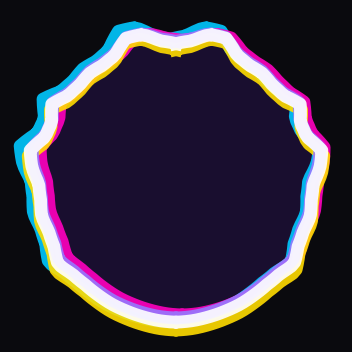
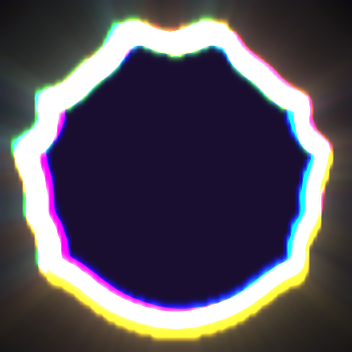
Stop the microphone running late, and light the ring
The microphone was most of a second behind, and the cause was an asymmetry I
put there.

The output ring throws away its backlog on every tick -- discardAllButNewest --
because a visualiser running a third of a second behind the music is worse than
one that dropped a third of a second. The input ring, added last, had no such
line. Two devices on two clocks never deliver in step, so whatever the input
produced beyond what was consumed simply accumulated; the ring holds 65,536
frames, so it filled and stayed full, and every sample mixed in was that old.

It now keeps only the block about to be mixed, which is far less than the output
keeps and deliberately so. The analyser reads a whole FFT frame out of the
output ring and needs two windows there. The input is summed into a block that
has already been read, so anything past that block is not early, it is late.
Keeping two windows still left it 85 ms behind -- inaudible against music you
are already hearing, and very obvious against a room.

Measured rather than assumed, which is why the queue depth is now in the HUD and
in --verify-audio: 65,536 frames before, about 8,192 with the first fix, about
1,024 now. Roughly 680 ms to 11 ms at 96 kHz, or one tick. A queue that grows is
latency, and it should be visible rather than inferred from how wrong something
feels.

The ring gets glow by default too. It and the lines are both drawing something
that emits rather than something that reflects, which is the distinction that
[…]

diff --git a/src/app/DspWorker.cpp b/src/app/DspWorker.cpp
@@ -161,6 +161,26 @@ void DspWorker::tick()
             // of it, and beats resampling a signal that is going to be reduced
             // to twenty-eight numbers anyway.
             if (m_inputRing) {
+                // Throw away the input's backlog first, exactly as the output
+                // ring does above.
+                //
+                // Without this the microphone ran over a second late and stayed
+                // there. Two devices on two clocks never deliver in step, so any
+                // excess the input produces accumulates; the ring holds 65,536
+                // frames, so it filled up and simply stayed full, and every
+                // sample mixed in was a second and a bit old. The output path
+                // had always discarded its backlog to stay current -- the input
+                // path was the one that did not.
+                // Keep only what is about to be mixed, which is far less than
+                // the output ring keeps.
+                //
+                // The output holds two windows because the analyser reads a
+                // whole FFT frame out of it. The input is summed into a block
+                // that has already been read, so anything beyond that block is
+                // not early, it is late: at two windows the microphone sat 85 ms
+                // behind, which is inaudible on music you are already hearing
+                // and very obvious on a room.
+                m_inputRing->discardAllButNewest(got);
                 const auto want = static_cast<std::uint32_t>(
                     std::min<std::uint64_t>(m_inputRing->available(), got));
                 if (want > 0) {

diff --git a/src/app/App.cpp b/src/app/App.cpp
@@ -60,7 +60,10 @@ std::unique_ptr<Visualiser> App::makeVisualiser(const QString &id)
 RenderStyle::Bloom App::defaultBloomFor(const QString &id)
 {
     RenderStyle::Bloom bloom;
-    if (id == QLatin1String("lines")) {
+    // The lines are strokes of light and the ring is a lit rim; both are
+    // drawing something that emits rather than something that reflects, and
+    // both look wrong without it. The rest are objects with edges.
+    if (id == QLatin1String("lines") || id == QLatin1String("ring")) {
         bloom.enabled = true;
     }
     return bloom;
@@ -1047,12 +1050,13 @@ void App::runVerifyTick()
     }
 
     qInfo("rms %7.1f dB   agc %5.1f dB   presence %4.2f   loudest band %2d (%.2f)   "
-          "callbacks %llu   overruns %llu",
+          "callbacks %llu   overruns %llu   mic queue %llu",
           static_cast<double>(state.rmsDb), static_cast<double>(state.agcDb),
           static_cast<double>(state.presence), loudest,
           static_cast<double>(state.bars[loudest]),
           static_cast<unsigned long long>(m_audio->source()->callbackCount()),
-          static_cast<unsigned long long>(m_audio->source()->overrunCount()));
+          static_cast<unsigned long long>(m_audio->source()->overrunCount()),
+          static_cast<unsigned long long>(m_audio->source()->inputBacklogFrames()));
 
     if (++m_verifyTicks >= static_cast<int>(kVerifySeconds * 4)) {
         qInfo("capture: %s", qPrintable(m_audio->source()->statusDetail()));

diff --git a/src/app/DebugHud.cpp b/src/app/DebugHud.cpp
@@ -133,11 +133,13 @@ void DebugHud::refresh()
                                "rate      %1 Hz\n"
                                "callbacks %2\n"
                                "overruns  %3\n"
-                               "capture   %4")
+                               "capture   %4\n"
+                               "mic queue %5 frames")
                     .arg(m_source->sampleRate(), 8, 'f', 0)
                     .arg(m_source->callbackCount(), 8)
                     .arg(m_source->overrunCount(), 8)
-                    .arg(m_source->statusDetail());
+                    .arg(m_source->statusDetail())
+                    .arg(m_source->inputBacklogFrames(), 8);
     }
 
     m_stats->setText(text);

diff --git a/src/audio/AudioSource.h b/src/audio/AudioSource.h
@@ -81,6 +81,10 @@ public:
     }
     virtual bool inputEnabled() const { return false; }
     virtual MonoRing *inputRing() { return nullptr; }
+    // Frames waiting in the input ring. This is latency, directly: anything
+    // sitting here is sound that has been heard and not yet drawn, so a number
+    // that climbs and stays high is a microphone running late.
+    virtual std::uint64_t inputBacklogFrames() const { return 0; }
 
 Q_SIGNALS:
     void permissionStateChanged(int state);

diff --git a/src/platform/CoreAudioTapSource.h b/src/platform/CoreAudioTapSource.h
@@ -41,6 +41,10 @@ public:
     bool setInputEnabled(bool enabled) override;
     bool inputEnabled() const override { return m_inputEnabled; }
     MonoRing *inputRing() override { return m_input.ring(); }
+    std::uint64_t inputBacklogFrames() const override
+    {
+        return m_inputEnabled ? m_input.backlogFrames() : 0;
+    }
 
     std::uint64_t callbackCount() const override
     {

diff --git a/src/platform/InputCapture.h b/src/platform/InputCapture.h
@@ -43,6 +43,7 @@ public:
     double sampleRate() const;
 
     MonoRing *ring();
+    std::uint64_t backlogFrames() const;
 
     // Public only because the C IO proc trampoline has to reach it; nothing
     // outside that file has any business with it.

diff --git a/src/platform/InputCapture.mm b/src/platform/InputCapture.mm
@@ -133,6 +133,10 @@ MonoRing *InputCapture::ring()
 {
     return &m_impl->ring;
 }
+std::uint64_t InputCapture::backlogFrames() const
+{
+    return m_impl->ring.available();
+}
 
 bool InputCapture::start()
 {

diff --git a/CHANGELOG.md b/CHANGELOG.md
@@ -8,6 +8,16 @@ and this project adheres to [Semantic Versioning](https://semver.org/spec/v2.0.0
 ## [Unreleased]
 
 ### Fixed
+- The microphone ran most of a second late. The output ring discards its backlog
+  every tick to stay current and the input ring did not, so with two devices on
+  two clocks the excess simply accumulated until the ring was full and stayed
+  there. It now keeps only the block about to be mixed, which is much less than
+  the output keeps: the analyser reads a whole FFT frame out of the output ring,
+  while anything in the input ring beyond the current block is not early but
+  late. Measured queue depth went from 65,536 frames to about 1,024 -- roughly
+  680 ms to 11 ms at 96 kHz -- and the depth is now shown in the HUD and in
+  `--verify-audio`, because a queue that grows is latency and should be visible
+  rather than inferred.
 - The glow flipped every frame vertically. The post-process takes its texture
   coordinate from the fullscreen triangle's vertex position, and clip space is
   y-up where an uploaded QImage is v-down, so each frame was sampled upside down
@@ -62,6 +72,9 @@ and this project adheres to [Semantic Versioning](https://semver.org/spec/v2.0.0
   Windows and Linux presenters, each documenting the chosen approach.
 - Headless tests for the ring buffer, the FFT (against a naive DFT), the
   spectrum analyser and the ballistics.
+- The ring has glow on by default, alongside the lines. Both draw something
+  that emits rather than something that reflects, which is the distinction that
+  decides it.
 - "Include microphone input" in the menu, which mixes an input device into the
   analysis alongside the system output so the visualiser answers "what can this
   machine hear" as well as "what is it playing". Off by default, because it
